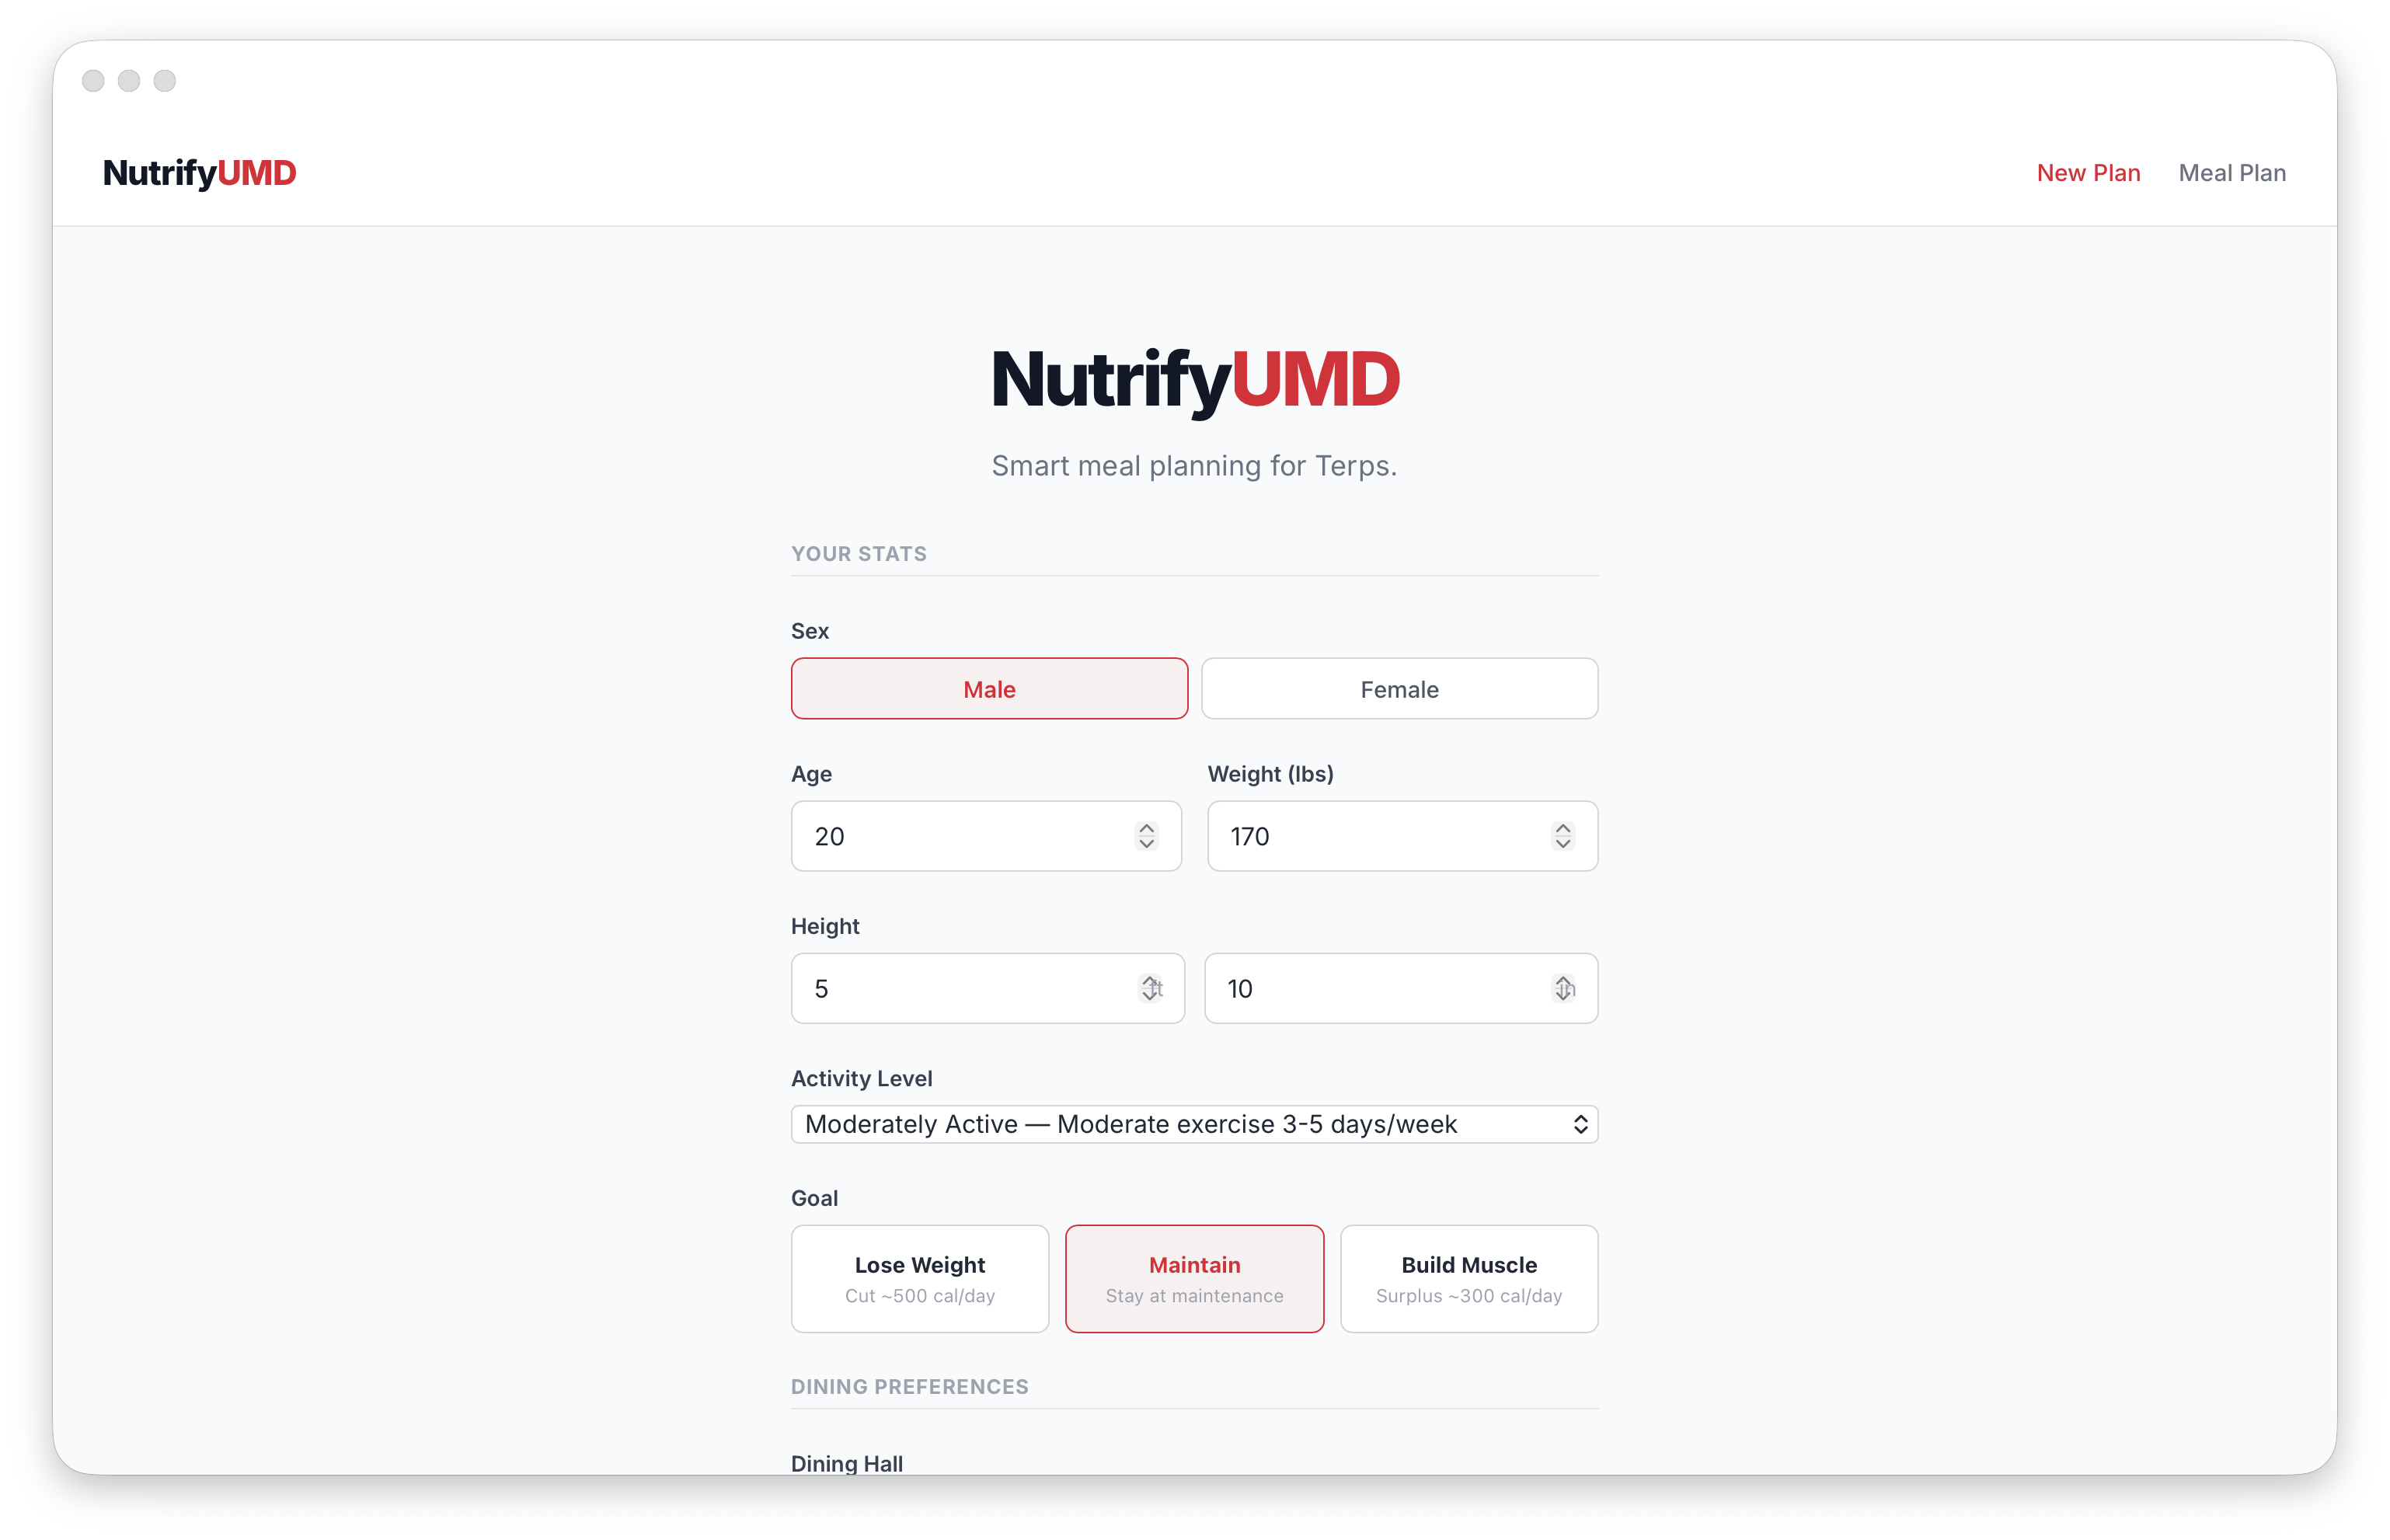
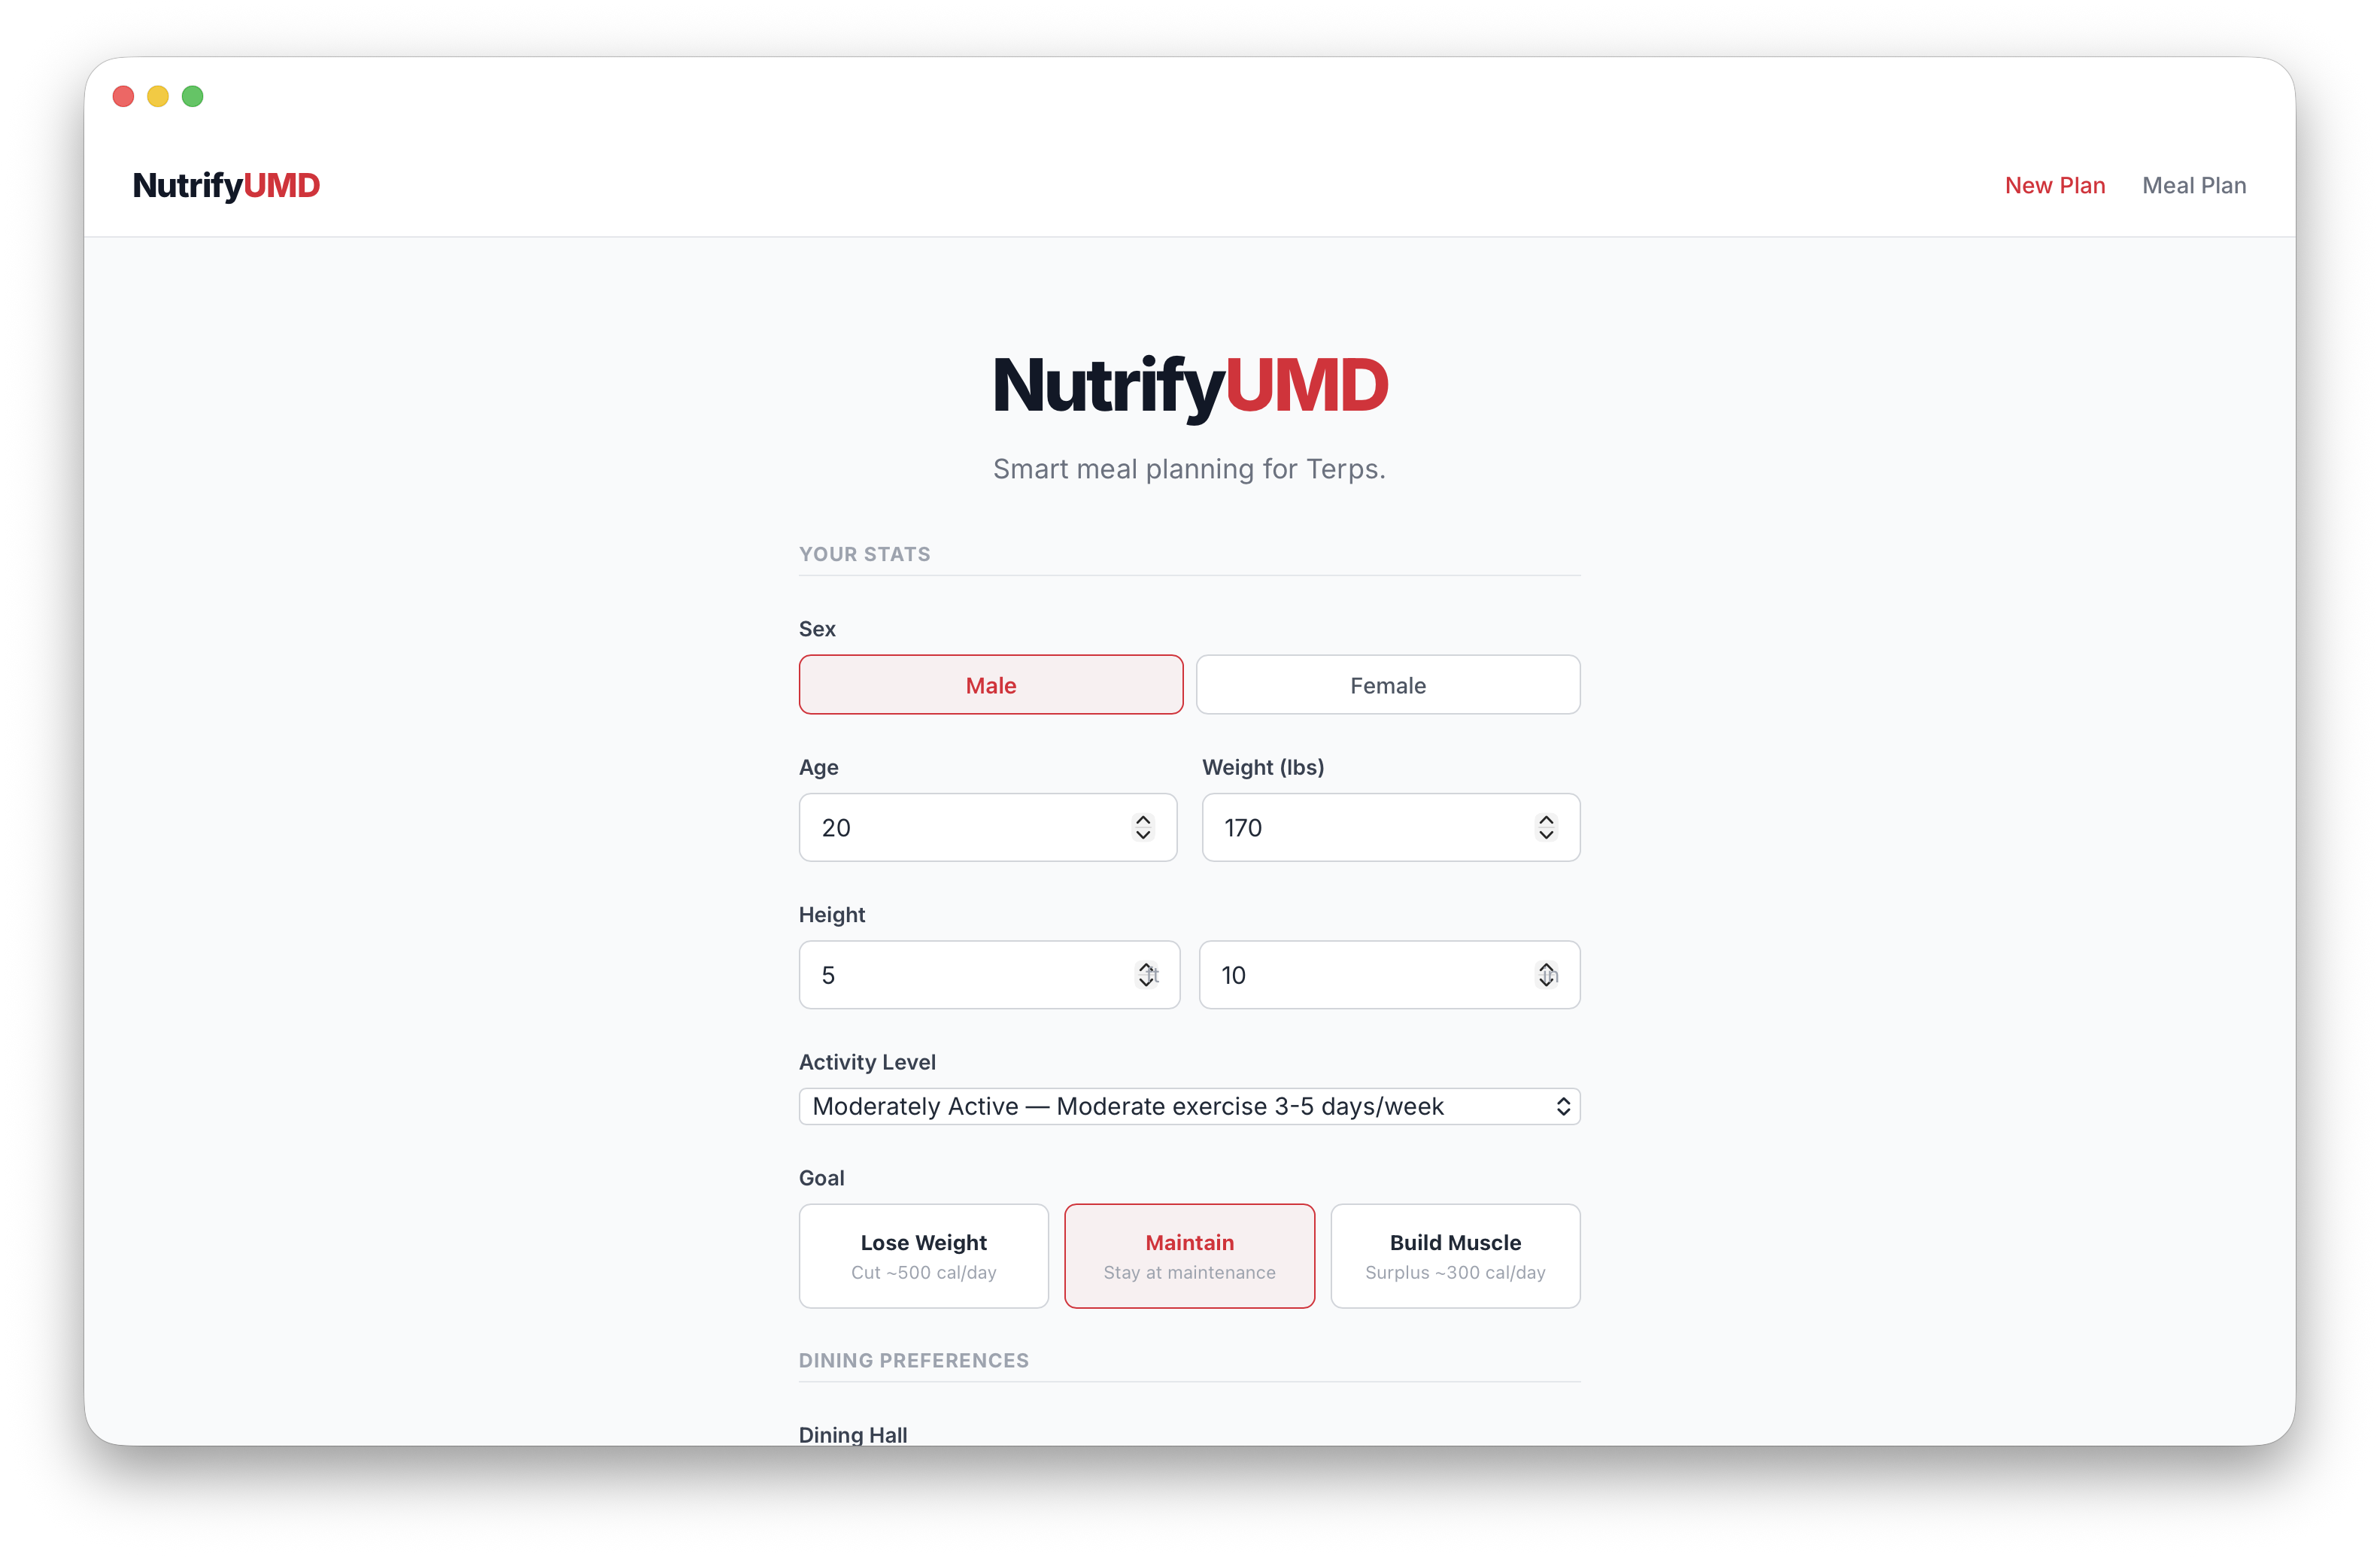
Changes successful, next up update possesion pics, clean up, and then done

diff --git a/src/styles/global.css b/src/styles/global.css
@@ -458,19 +458,17 @@ p {
   border: 1px solid var(--border);
 }
 
-/* Showcase variant: soft panel, eyebrow header, and a screenshot framed like a
-   browser window that bleeds off the bottom edge of the card. */
+/* Showcase variant: soft panel, eyebrow header, and a screenshot that floats
+   inside the card and bleeds off its bottom edge. The card itself is a fixed
+   height and clips its contents; only the screenshot moves on hover. */
 .project--showcase {
   display: block;
+  position: relative;
+  height: 300px; /* ← card vertical length — change this to make it taller/shorter */
+  overflow: hidden;
   background: var(--panel);
   text-decoration: none;
   color: inherit;
-  transition: transform 0.2s ease, box-shadow 0.2s ease;
-}
-
-.project--showcase:hover {
-  transform: translateY(-2px);
-  box-shadow: 0 6px 20px rgba(0, 0, 0, 0.06), 0 18px 44px rgba(0, 0, 0, 0.08);
 }
 
 .project__head {
@@ -485,27 +483,38 @@ p {
   font-size: 0.95rem;
 }
 
+/* Arrow sits in a circle that's invisible until hover, then lifts into a small
+   white button. */
 .project__arrow {
   flex: 0 0 auto;
-  transition: transform 0.2s ease, color 0.2s ease;
+  display: grid;
+  place-items: center;
+  width: 36px;
+  height: 36px;
+  border-radius: 50%;
+  background: transparent;
+  box-shadow: 0 0 0 0 rgba(0, 0, 0, 0);
+  transition: background 0.2s ease, box-shadow 0.2s ease, color 0.2s ease;
 }
 
 .project--showcase:hover .project__arrow {
-  transform: translate(2px, -2px);
   color: var(--text);
+  background: var(--card);
+  box-shadow: 0 2px 8px rgba(0, 0, 0, 0.12);
 }
 
-/* The screenshot frame. Rounded only at the top and clipped to a fixed height
-   so the bottom of the screenshot runs off the bottom of the card. */
+/* The screenshot. Pushed down so it floats low in the card with empty panel
+   above it; on hover it scales up in place, like it's coming toward you. The
+   image already includes its own browser chrome, so the frame adds no styling
+   of its own — it's a bare passthrough. */
 .project__frame {
   margin: 0 1.4rem;
-  max-height: 300px;
-  overflow: hidden;
-  background: var(--card);
-  border: 1px solid var(--border);
-  border-bottom: none;
-  border-radius: 12px 12px 0 0;
-  box-shadow: 0 2px 10px rgba(0, 0, 0, 0.05), 0 16px 40px rgba(0, 0, 0, 0.1);
+  transform: translateY(30px); /* ← how far down the screenshot floats */
+  transition: transform 0.35s cubic-bezier(0.22, 0.61, 0.36, 1);
+}
+
+.project--showcase:hover .project__frame {
+  transform: translateY(30px) scale(1.06);
 }
 
 .project__frame img {
@@ -513,6 +522,12 @@ p {
   width: 100%;
   height: auto;
   object-position: top;
+}
+
+@media (prefers-reduced-motion: reduce) {
+  .project__frame {
+    transition: none;
+  }
 }
 
 /* Text variant */

diff --git a/src/content/projects/personal-website.md b/src/content/projects/personal-website.md
@@ -1,7 +1,7 @@
 ---
-title: Personal Website
-summary: This site — a minimalist, content-driven personal site built with Astro.
-repo: https://github.com/andrewghosh/PersonalWebsite
+title: This Website
+summary: Linked the codebase, so if you want to take inspiration feel free.
+repo: https://github.com/Andrew-Ghosh/personal-website
 tech: ["Astro", "TypeScript", "CSS"]
 order: 4
 ---

diff --git a/src/content/projects/air-quality-monitor.md b/src/content/projects/air-quality-monitor.md
@@ -1,6 +1,6 @@
 ---
-title: Air Quality Monitor
-summary: A small connected sensor that tracks indoor air quality and surfaces it on a live dashboard.
+title: Smart Air Quality Monitor
+summary: Raspberry Pi with sensor + camera that tracks indoor air quality and surfaces it on a live dashboard. Detects when I'm in the room and sets air purifier strength according to air quality. Link coming soon.
 tech: ["Hardware", "Python", "React"]
 order: 2
 ---

diff --git a/src/content/projects/minimalist-habit-tracker.md b/src/content/projects/minimalist-habit-tracker.md
@@ -1,6 +1,7 @@
 ---
-title: Minimalist Habit Tracker
+title: Habit trackers are stuffed, so I made my own.
 summary: A distraction-free habit tracker built around a single daily streak, nothing more.
+link: https://minimalisthabittracker.com
 tech: ["React", "TypeScript", "CSS"]
 order: 3
 ---

diff --git a/src/content/projects/nutrifyumd.md b/src/content/projects/nutrifyumd.md
@@ -1,5 +1,5 @@
 ---
-title: NutrifyUMD
+title: A personal nutritionist for UMD students.
 summary: A meal-planning app that helps UMD students eat better around their dining hall menus.
 link: https://nutrifyumd.vercel.app
 tech: ["React", "TypeScript", "Node.js"]